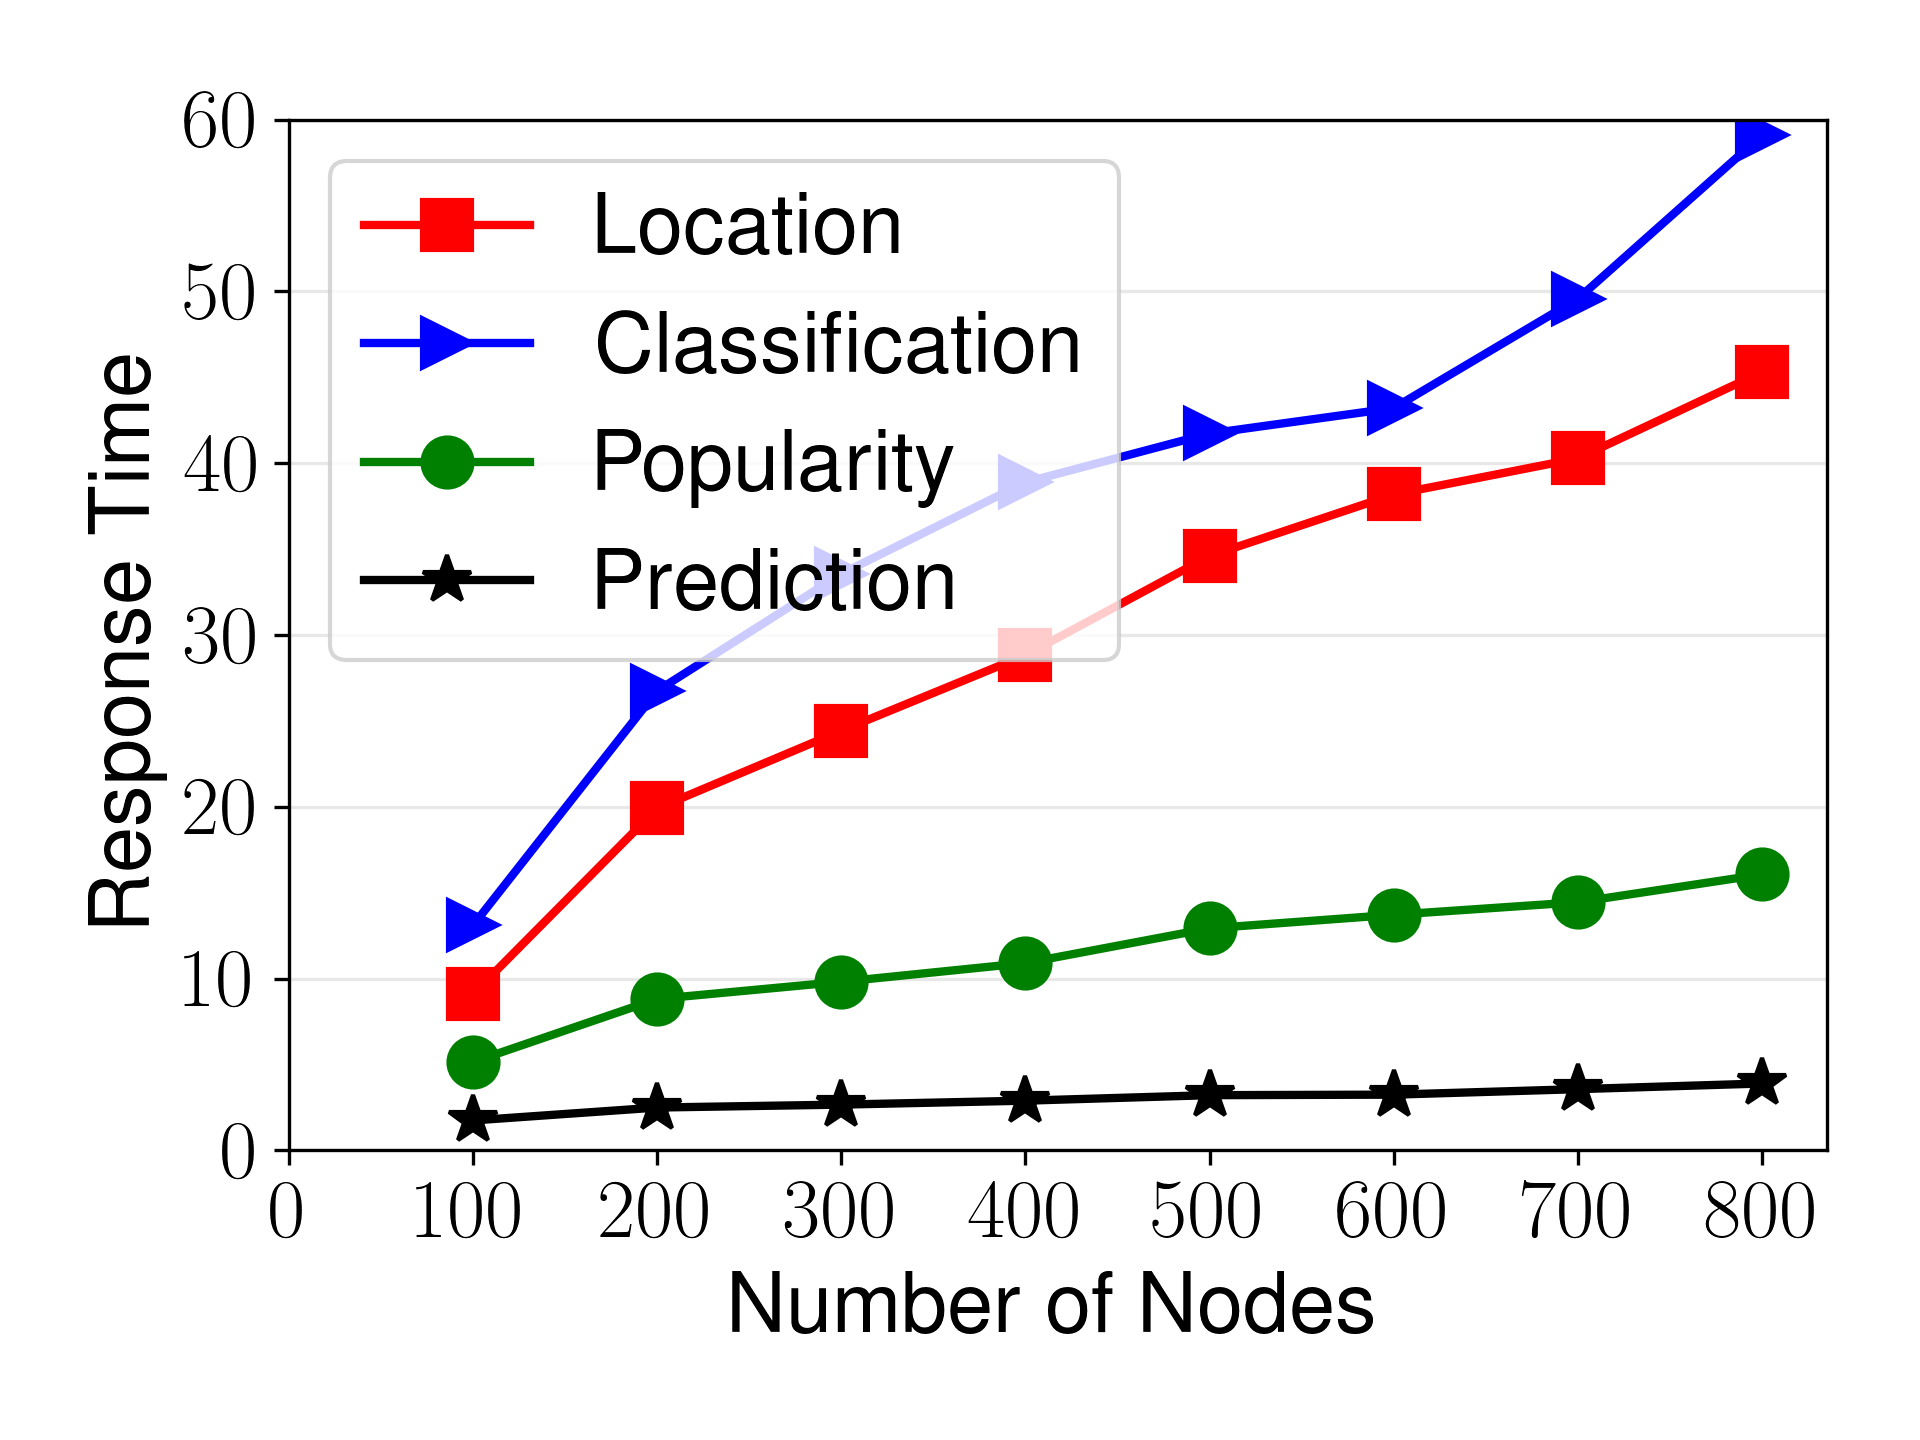
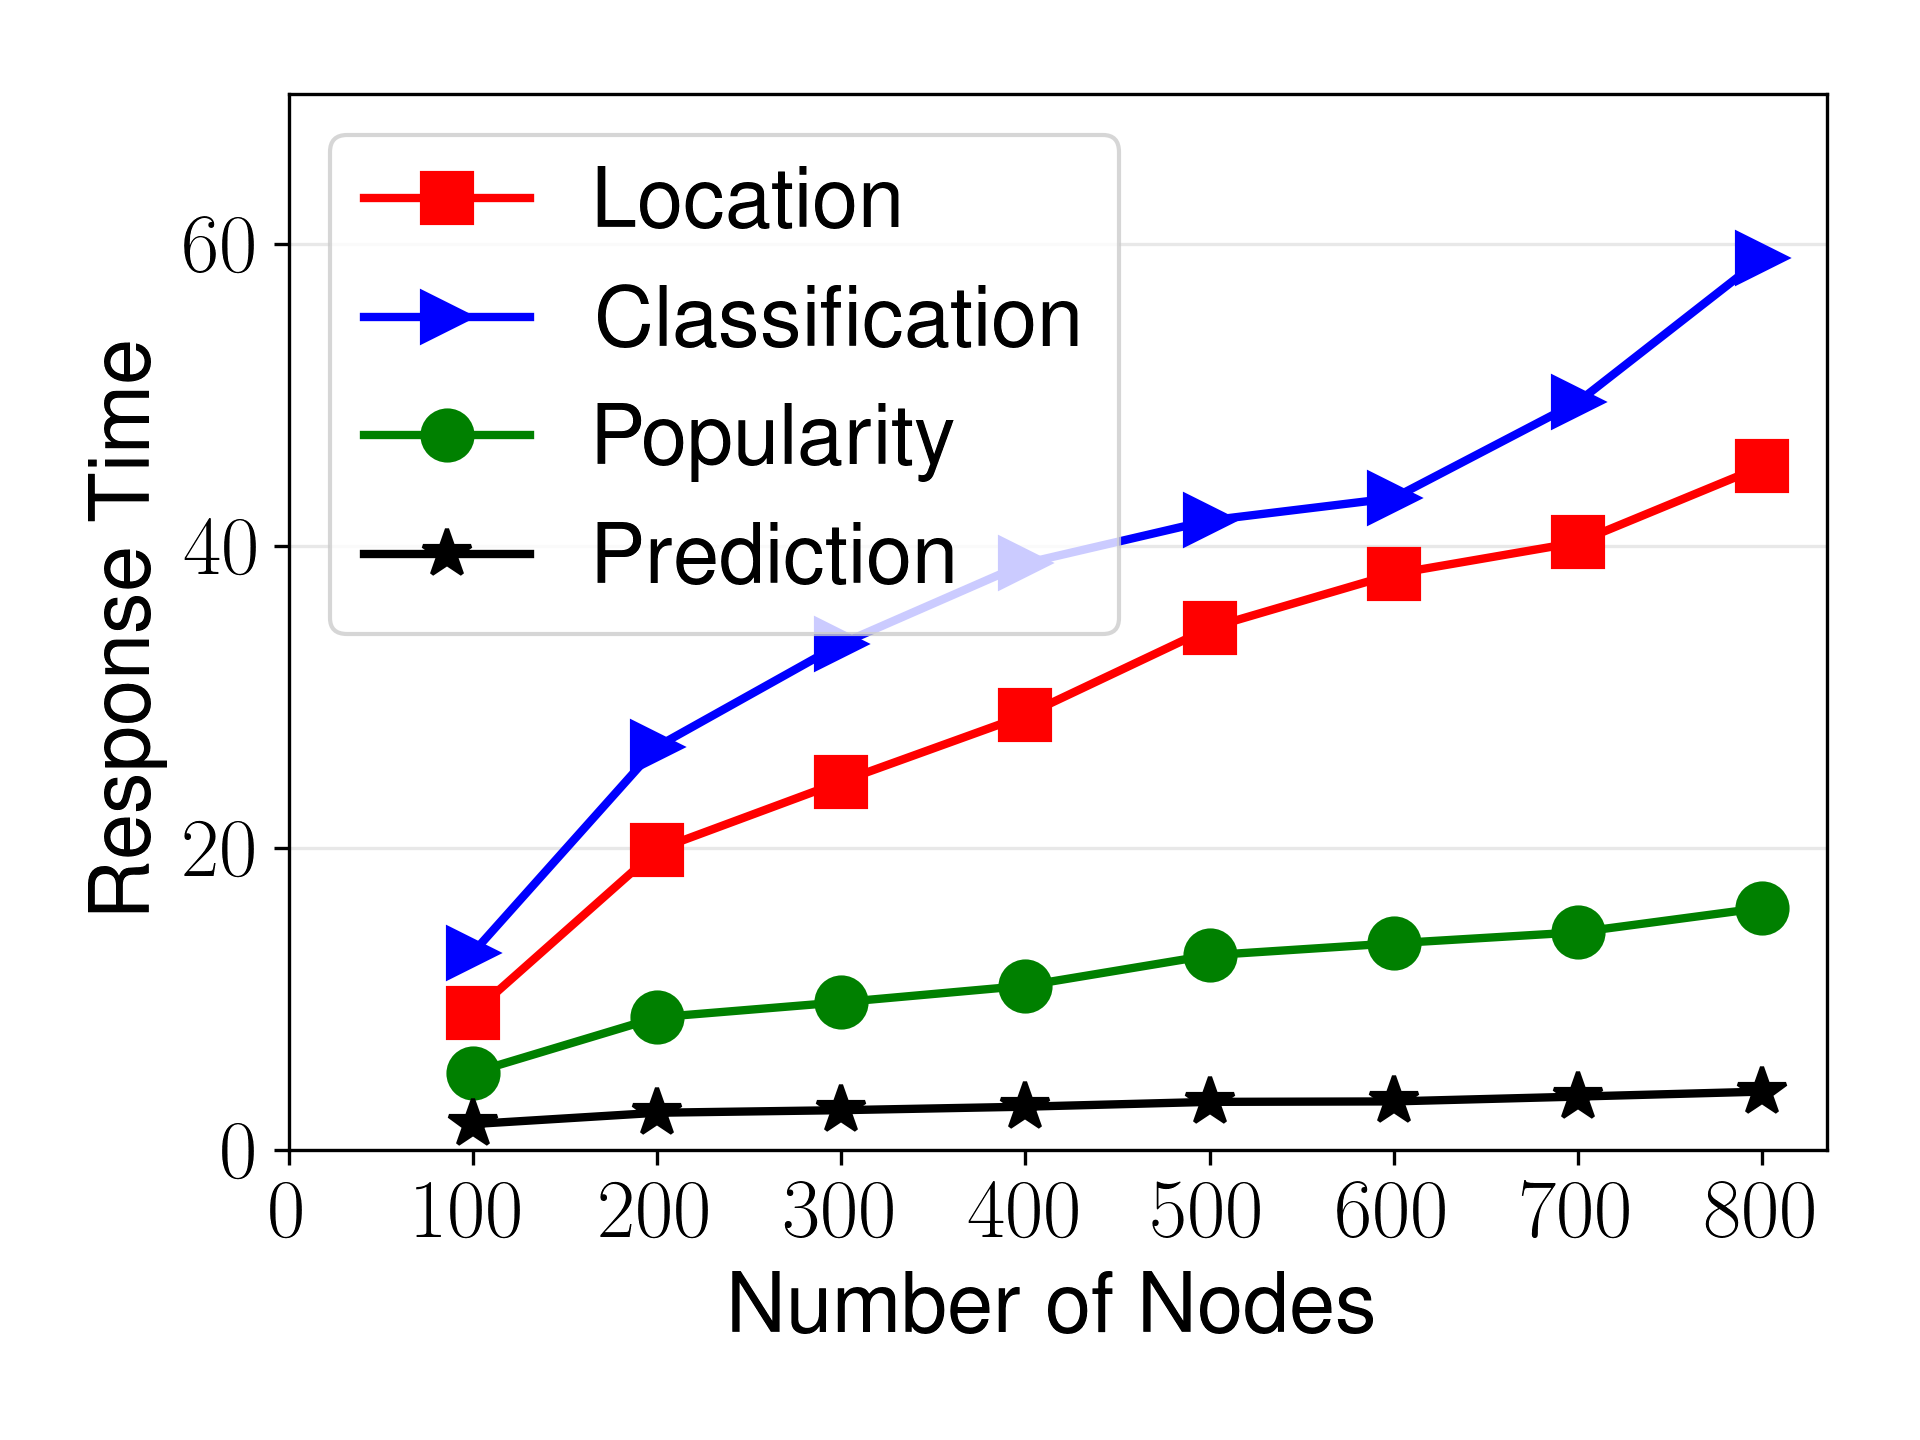
change y axis value
change limit of y axis

diff --git a/drawResult.py b/drawResult.py
@@ -104,7 +104,7 @@ for index in range(1,3):
 	#xlim_Max = 900;
 	#xlim_Min = 0;
 	#plt.xlim(xlim_Min,xlim_Max)
-	plt.ylim(0,60)
+	plt.ylim(0,70)
 	   
 	plt.xlabel("Number of Nodes") 
 	plt.ylabel("Response Time") 
